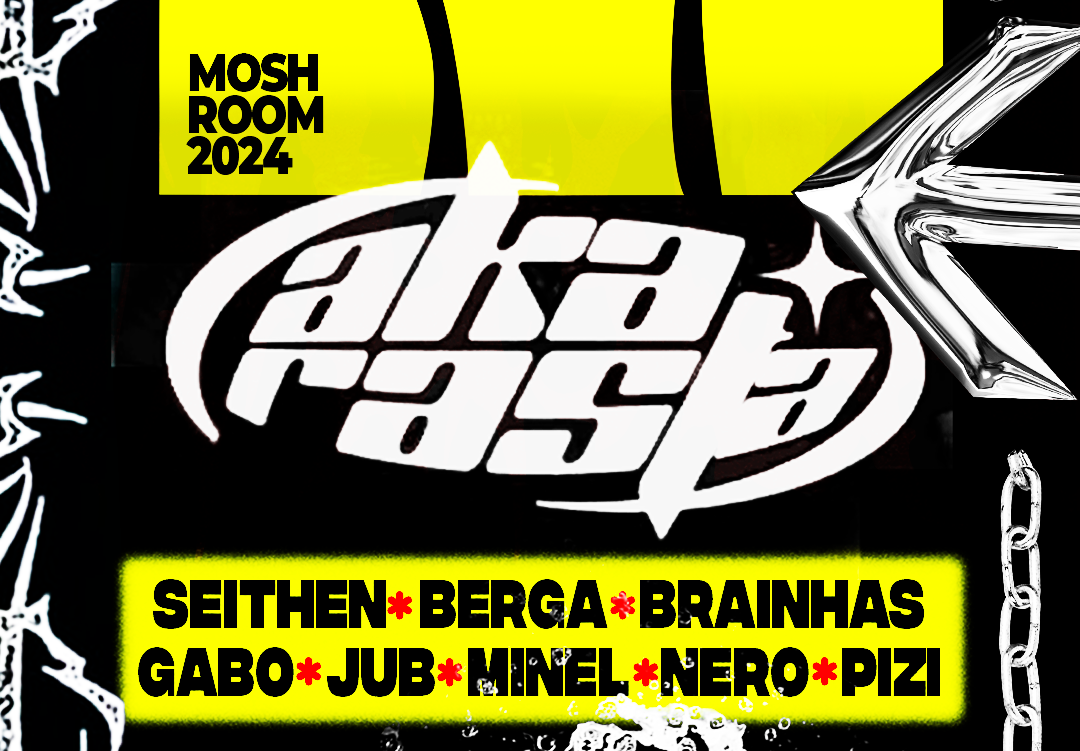
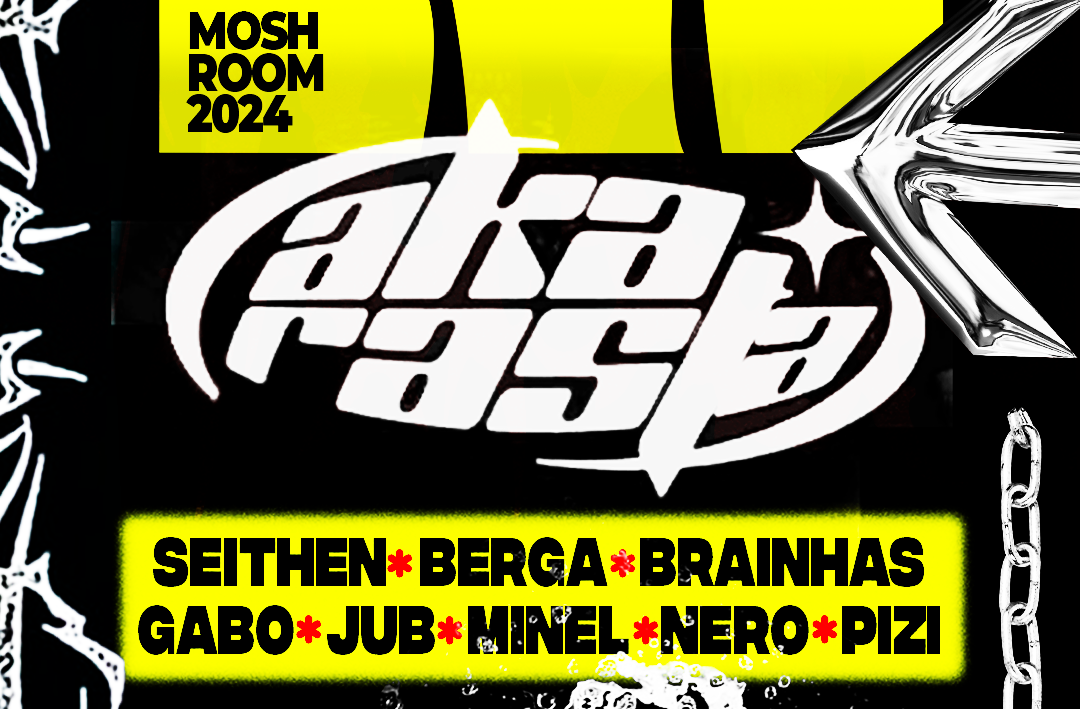
Subindo imagens novas

diff --git a/style.css b/style.css
@@ -416,8 +416,8 @@ a:hover i {
 
 @media screen and (max-width: 768px) {
   .main-image {
-    background-image: url(img2/capa-mosh.jpg);
-    background-size: 50vh;
+    background-image: url(img2/capa-mosh2.jpg);
+    background-size: 90vh;
   }
 
   ::-webkit-scrollbar-thumb {
